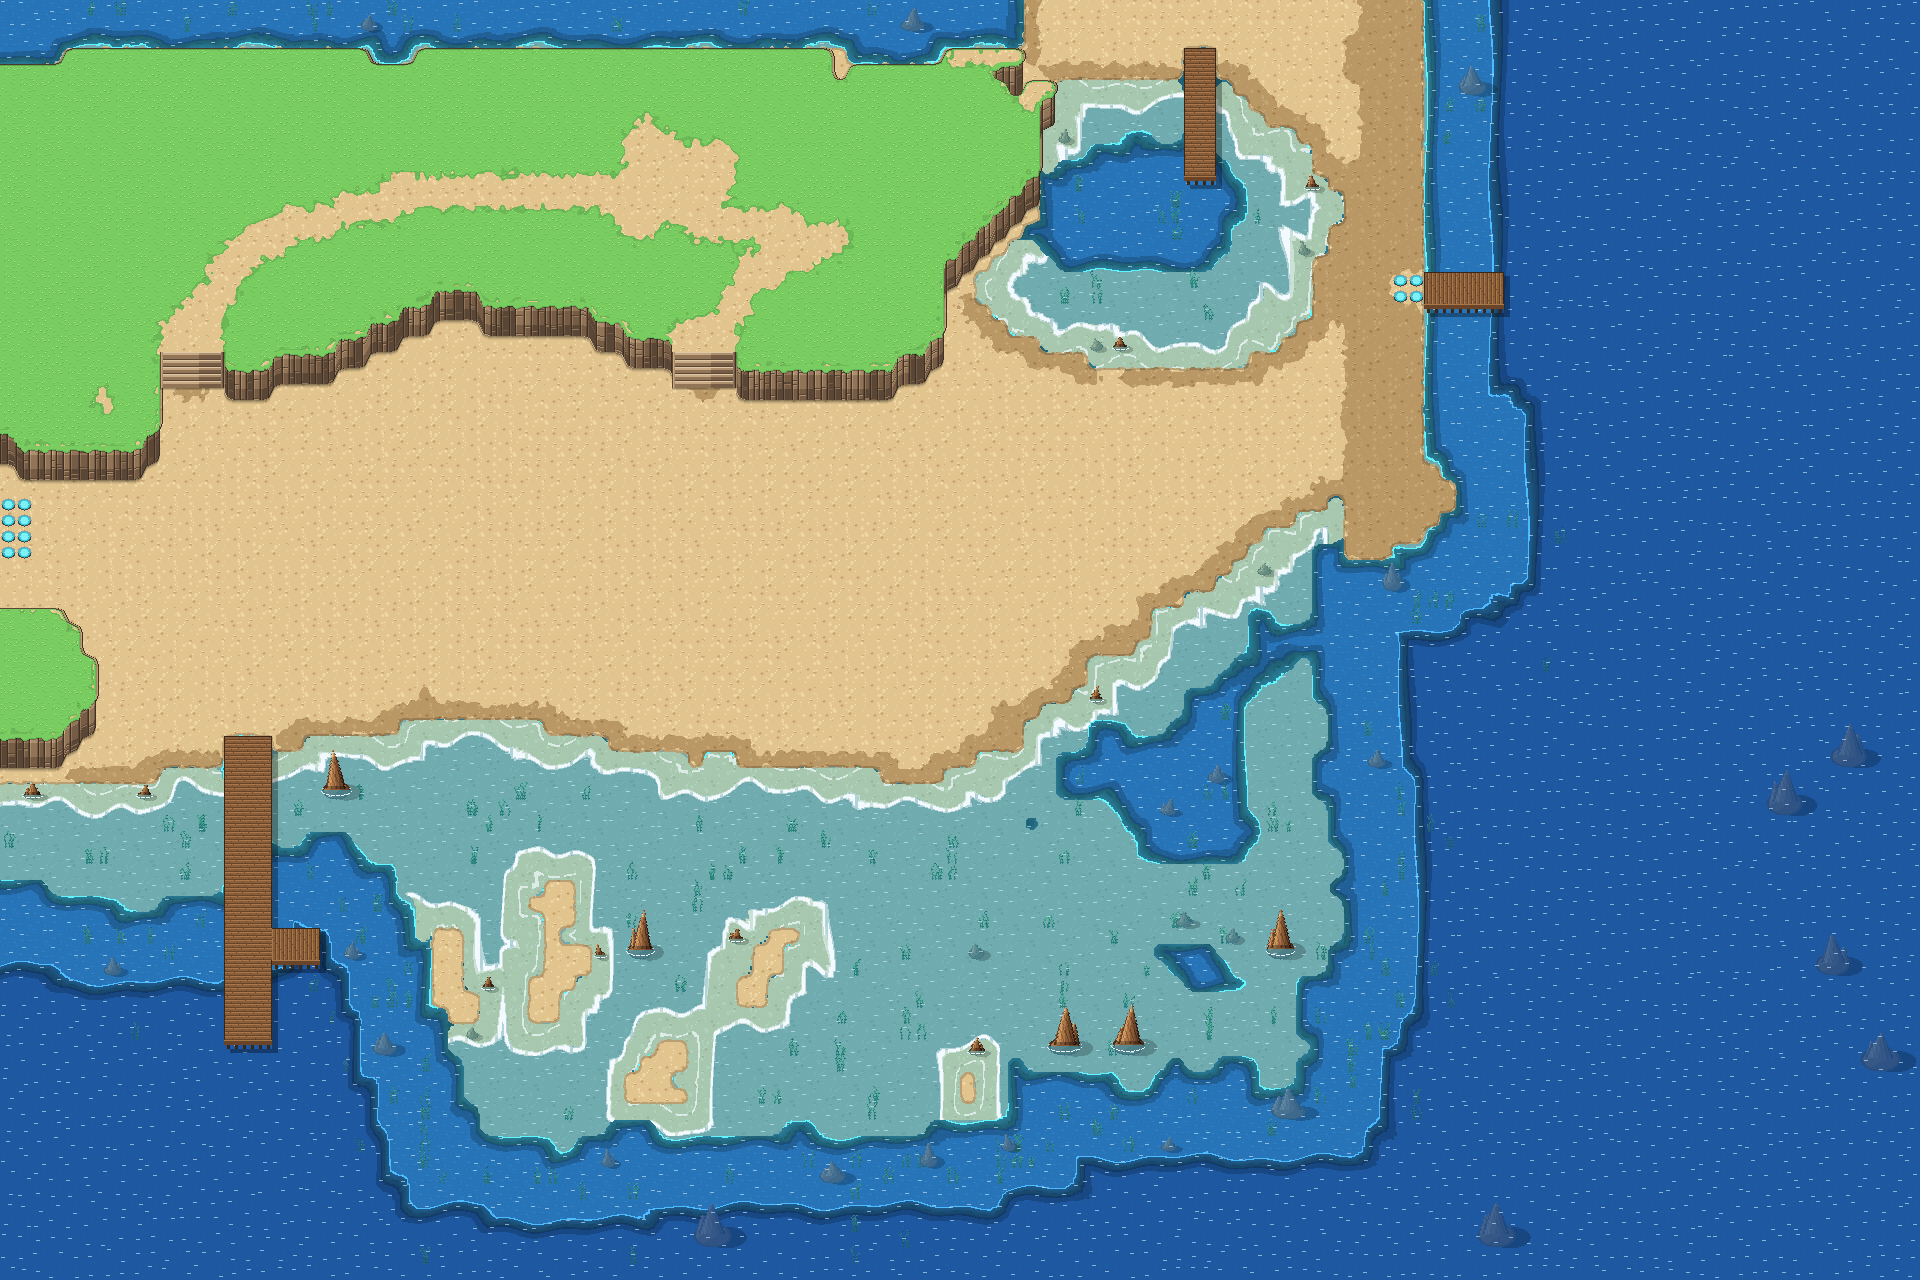
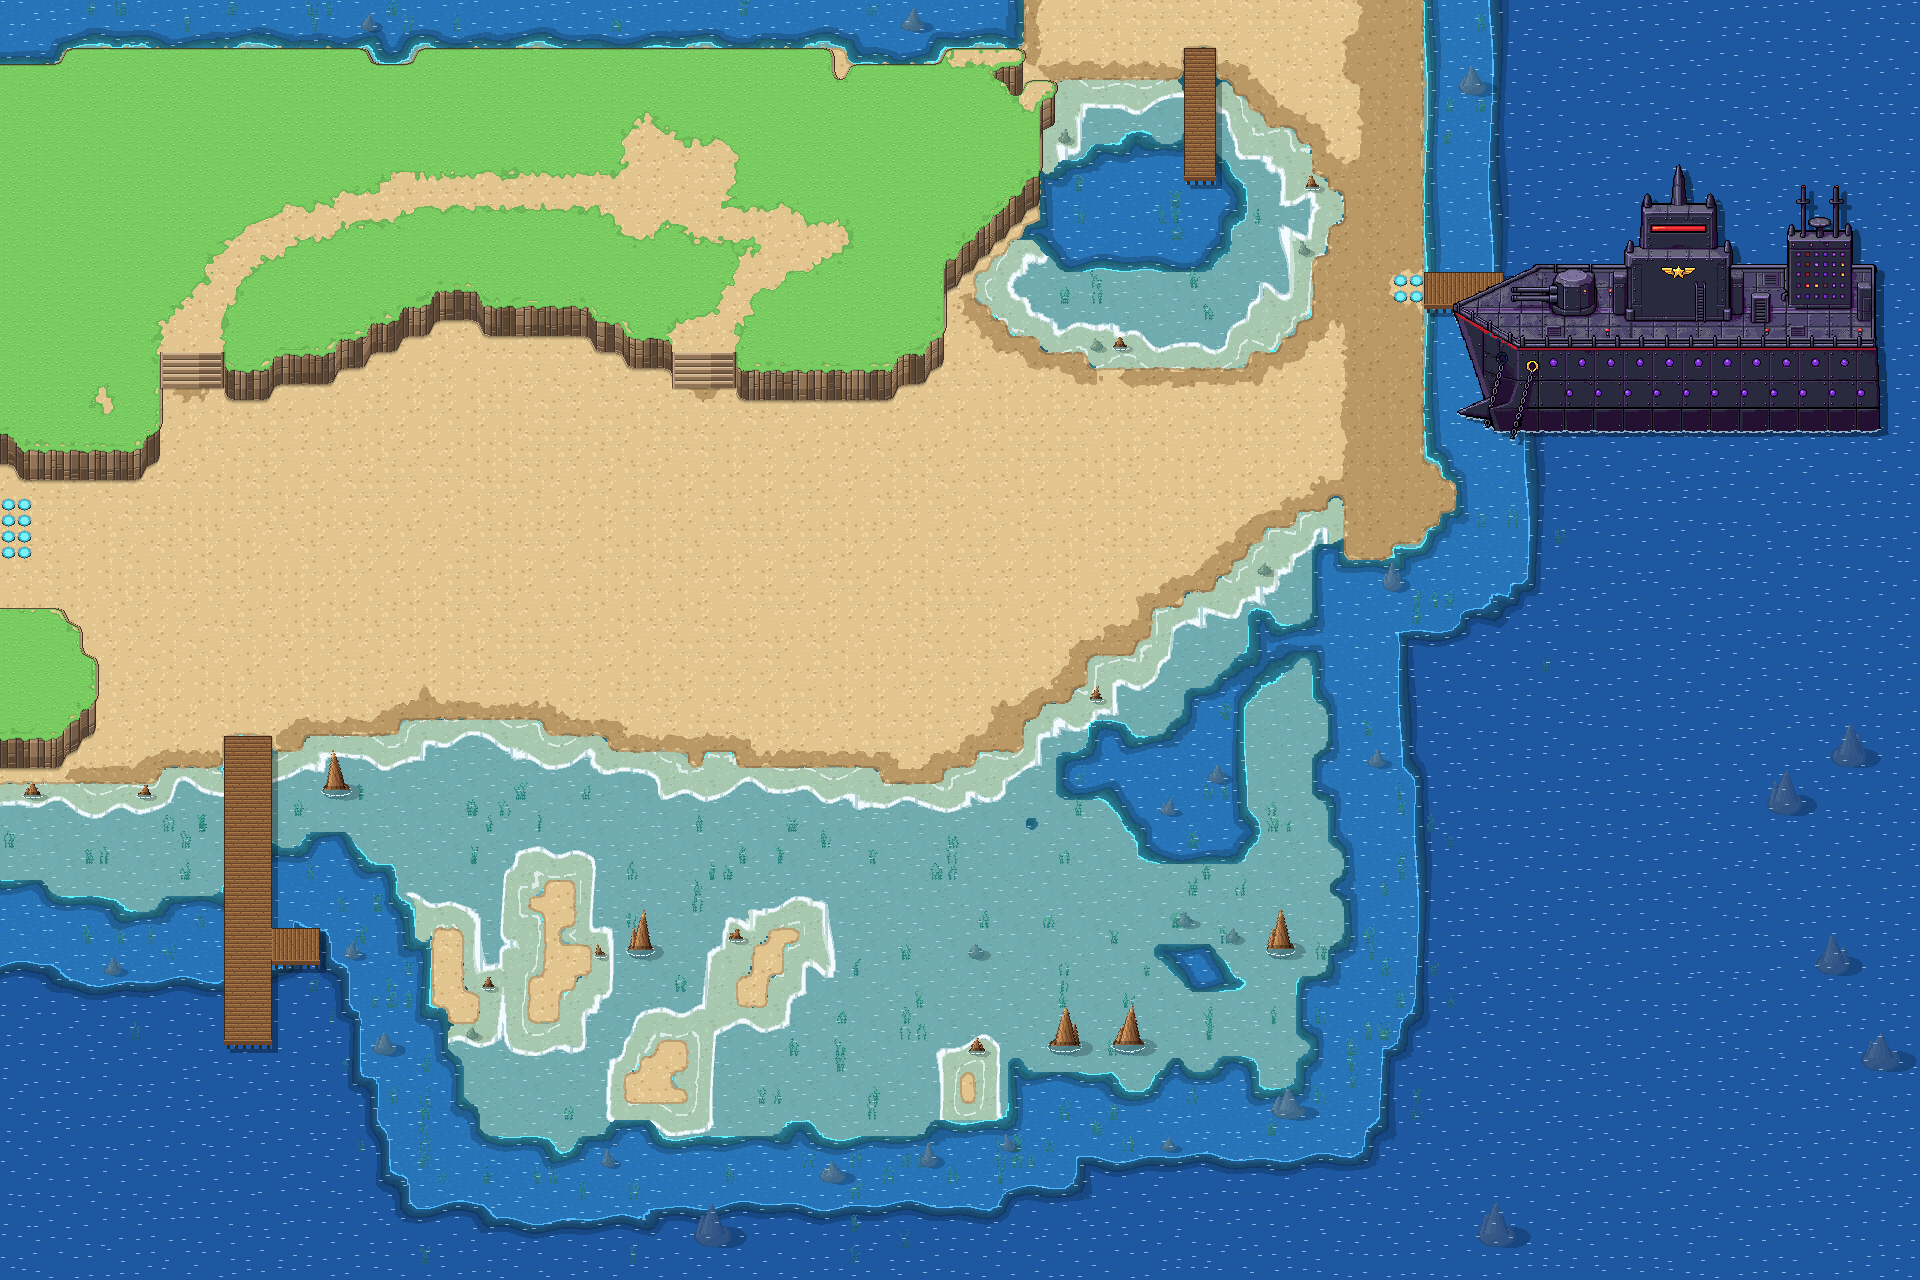
Karte 25: Schiff mit dem PixelLab Pro-Generator (Ausnahme fuer Objekte > 256 px), freigestellt, mit Schatten und Schaum an der Wasserlinie; Ausnahme in CLAUDE.md
Claude-Session: https://claude.ai/code/session_01SaoYHKhnro4LFcPJqjaPsq

Changed region(s): [[0.75, 0.125, 1.0, 0.3438]]

diff --git a/tools/pixellab_gross.py b/tools/pixellab_gross.py
@@ -1,0 +1,92 @@
+"""Grosse Einzelobjekte (> 256 px) mit dem PixelLab Pro-Generator (generate-image-v2).
+
+AUSNAHME von der Regel "PixelLab nur Objekt-Creator" (Nutzer, Karte 25): nur fuer Objekte, die groesser als 256 px
+sein muessen (Schiff in Sunset Bay). Subjekt-Referenz = Ausschnitt der Vorlage (geschuetzte Symbole vorher
+uebermalt), Stil-Referenz = ein vorhandenes Objekt der Karte, damit Pixeldichte, Kontur und Licht passen.
+
+  python3 tools/pixellab_gross.py schiff
+"""
+import base64, io, json, os, sys, time, urllib.request, urllib.error
+sys.path.insert(0, os.path.dirname(os.path.abspath(__file__)))
+from PIL import Image, ImageDraw
+from pixellab_objekte import call, FR14
+
+ROOT = os.path.join(os.path.dirname(os.path.abspath(__file__)), '..')
+
+
+def b64(im):
+    buf = io.BytesIO(); im.save(buf, 'PNG')
+    return base64.b64encode(buf.getvalue()).decode()
+
+
+def ref(im, beschreibung=None):
+    r = {'image': {'type': 'base64', 'base64': b64(im), 'format': 'png'}, 'size': {'width': im.width, 'height': im.height}}
+    if beschreibung:
+        r['usage_description'] = beschreibung
+    return r
+
+
+AUFTRAEGE = {
+    'schiff': {
+        'ziel': 'assets/objekte/karte25/schiff',
+        'groesse': (480, 304),
+        'vorlage': ('assets/vorlagen/karte25_vorlage.png', (1424, 160, 1904, 464)),
+        'uebermalen': [(1640, 270, 1720, 330)],                 # Wappen der Vorlage (geschuetztes Design) entfernen
+        'stil': 'assets/objekte/karte25/leuchtturm/00.png',
+        'text': ('huge dark steel battleship docked in a harbor, seen from the side as a flat 2D profile, bow pointing left '
+                 'with a sharp ram, long dark grey riveted steel hull with a thin red stripe along the deck line and a row of '
+                 'small glowing purple round portholes, two anchor chains hanging from the bow, on the deck a big double gun '
+                 'turret at the front, a tall blocky command tower in the middle with a glowing red visor slit and a pointed '
+                 'spire on top, a small golden winged emblem of a simple star with wings on the tower front, a second tower '
+                 'at the back with antennas and many small lit windows, ' + FR14),
+    },
+}
+
+
+def main(name):
+    a = AUFTRAEGE[name]
+    w, h = a['groesse']
+    pf, box = a['vorlage']
+    v = Image.open(os.path.join(ROOT, pf)).convert('RGB').crop(box)
+    d = ImageDraw.Draw(v)
+    for (x0, y0, x1, y1) in a.get('uebermalen', []):
+        d.rectangle((x0 - box[0], y0 - box[1], x1 - box[0], y1 - box[1]), fill=(46, 46, 58))
+    stil = Image.open(os.path.join(ROOT, a['stil'])).convert('RGBA')
+    req = {'description': a['text'], 'image_size': {'width': w, 'height': h}, 'no_background': True,
+           'reference_images': [ref(v, 'subject and layout of the ship: shape, proportions, towers, colours')],
+           'style_image': ref(stil), 'style_options': {'color_palette': False, 'outline': True, 'detail': True}}
+    r = call('POST', '/v2/generate-image-v2', req)
+    jid = r['background_job_id']
+    print(name, 'Auftrag', jid)
+    for _ in range(90):
+        time.sleep(10)
+        try:
+            j = call('GET', '/v2/background-jobs/%s' % jid)
+        except urllib.error.HTTPError:
+            continue
+        if j.get('status') == 'completed':
+            break
+        if j.get('status') == 'failed':
+            raise SystemExit('fehlgeschlagen: %s' % json.dumps(j)[:500])
+    else:
+        raise SystemExit('Timeout')
+    ziel = os.path.join(ROOT, a['ziel'])
+    os.makedirs(ziel, exist_ok=True)
+    json.dump(j, open(os.path.join(ziel, 'antwort.json'), 'w'), indent=1, default=str)
+    lr = j.get('last_response') or {}
+    bilder = lr.get('images') or lr.get('image') or []
+    if isinstance(bilder, dict):
+        bilder = [bilder]
+    n = 0
+    for i, b in enumerate(bilder):
+        data = b.get('base64') if isinstance(b, dict) else b
+        if not data:
+            continue
+        im = Image.open(io.BytesIO(base64.b64decode(data))).convert('RGBA')
+        im.save(os.path.join(ziel, '%02d.png' % i)); n += 1
+    v.save(os.path.join(ziel, 'referenz.png'))
+    print(name, '%d Bild(er) ->' % n, a['ziel'])
+
+
+if __name__ == '__main__':
+    main(sys.argv[1])

diff --git a/tools/karte25_bauen.py b/tools/karte25_bauen.py
@@ -89,6 +89,41 @@ def stege(a, lay, wasser):
     return oben | front
 
 
+SCHIFF_POS = (1424, 160)                 # Lage wie in der Vorlage (Sprite = Vorlagenausschnitt 1424..1904 x 160..464)
+
+
+def schiff(a, wasser, frame):
+    """Schiff (PixelLab Pro-Generator, Ausnahme Nutzer) im tiefen Wasser: Schatten nach rechts unten nur auf dem Wasser,
+    Schaum an der Wasserlinie (wandert je Bild), Sprite darueber."""
+    sp = np.array(Image.open(os.path.join(OBJ, 'schiff', '00_sauber.png')).convert('RGBA'))
+    al = sp[..., 3] > 0
+    x0, y0 = SCHIFF_POS
+    h, w = al.shape
+    Hh, W = a.shape[:2]
+    sch = np.zeros((Hh, W), bool)                                    # Schatten: Silhouette 8 px rechts, 6 px tiefer
+    ys, xs = np.nonzero(al)
+    Y, X = ys + y0 + 6, xs + x0 + 8
+    ok = (Y < Hh) & (X < W)
+    sch[Y[ok], X[ok]] = True
+    rumpf = np.zeros((Hh, W), bool); rumpf[ys + y0, xs + x0] = True
+    sch &= wasser & ~rumpf
+    a[sch] = (a[sch] * 0.62).astype(np.uint8)
+    f = frame or 0
+    for x in range(w):                                               # Schaum an der Wasserlinie
+        col = np.nonzero(al[:, x])[0]
+        if not len(col):
+            continue
+        yb = y0 + col.max()
+        X_ = x0 + x
+        for d in (1, 2):
+            if yb + d < Hh and wasser[yb + d, X_] and ((X_ + 3 * f) // 3) % 4 != (0 if d == 1 else 2):
+                a[yb + d, X_] = np.clip(a[yb + d, X_] * 0.35 + np.array((230, 245, 250)) * 0.65, 0, 255).astype(np.uint8)
+    im = Image.fromarray(a).convert('RGBA')
+    im.alpha_composite(Image.fromarray(sp), (x0, y0))
+    a[:] = np.array(im.convert('RGB'))
+    return rumpf
+
+
 def bauen(frame=None, speichern=True):
     lay = json.load(open(os.path.join(KARTE, 'layout.json')))
     cls = lay['klassen']
@@ -149,6 +184,7 @@ def bauen(frame=None, speichern=True):
     wd.FELSEN_AUSLASSEN = set()
     a = np.array(img.convert('RGB'))
     steg_m = stege(a, lay, wasser)
+    schiff_m = schiff(a, wasser, frame)
     for tp in lay['teleporter']:
         k4.teleporter_zeichnen(a, tp['x'], tp['y'], tp['b'], tp['h'], frame)
     img = Image.fromarray(a).convert('RGBA')

diff --git a/CLAUDE.md b/CLAUDE.md
@@ -147,4 +147,7 @@ Wenn eine Karte fertig scheint: noch einmal komplett auf **Pixelfehler** und **L
   nie über originalgetreue Wappen, Logos oder Symbole.
 - **PixelLab nur Objekt-Creator:** Neue Objekte ausschließlich mit dem Objekt-Creator (`create-1-direction-object`,
   höchstens 256 px) erzeugen – nicht mit dem Pro-Generator (`generate-image-v2`) oder Pixflux für größere Bilder.
+  - **Ausnahme (Nutzer, Karte 25):** Objekte, die zwingend größer als 256 px sind (z. B. das Schiff in Sunset Bay), dürfen
+    mit dem Pro-Generator erzeugt werden (`tools/pixellab_gross.py`): Vorlagenausschnitt als Subjekt-Referenz (geschützte
+    Symbole vorher übermalt), ein vorhandenes Kartenobjekt als Stil-Referenz, danach mitgezeichnete Fremdteile entfernen.
 - **Ablauf:** Jede Änderung committen und pushen, Bilder/GIFs an den Nutzer schicken, auf Deutsch erklären.
